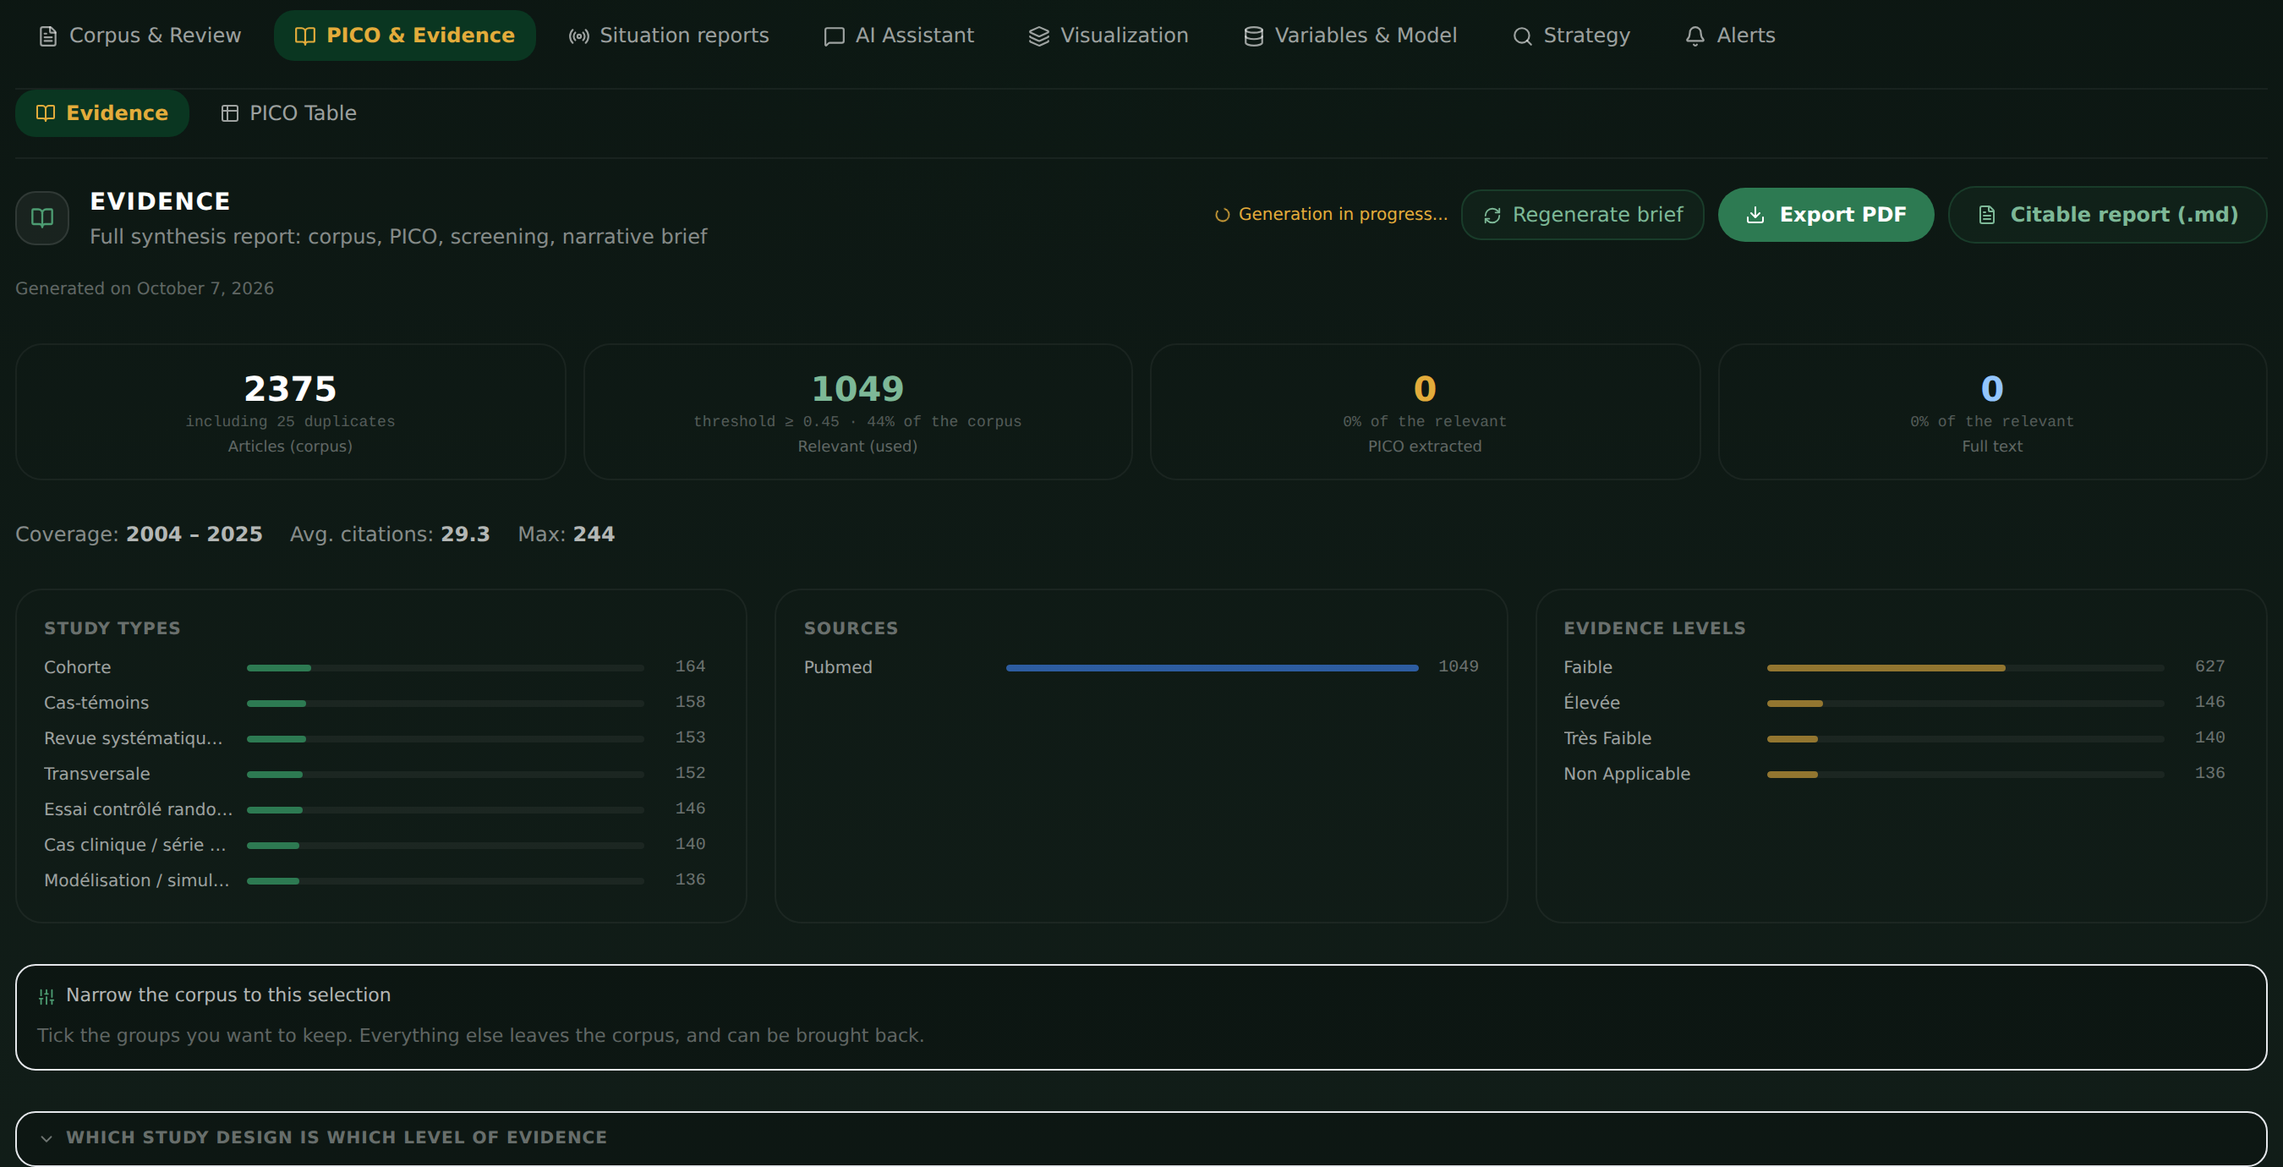
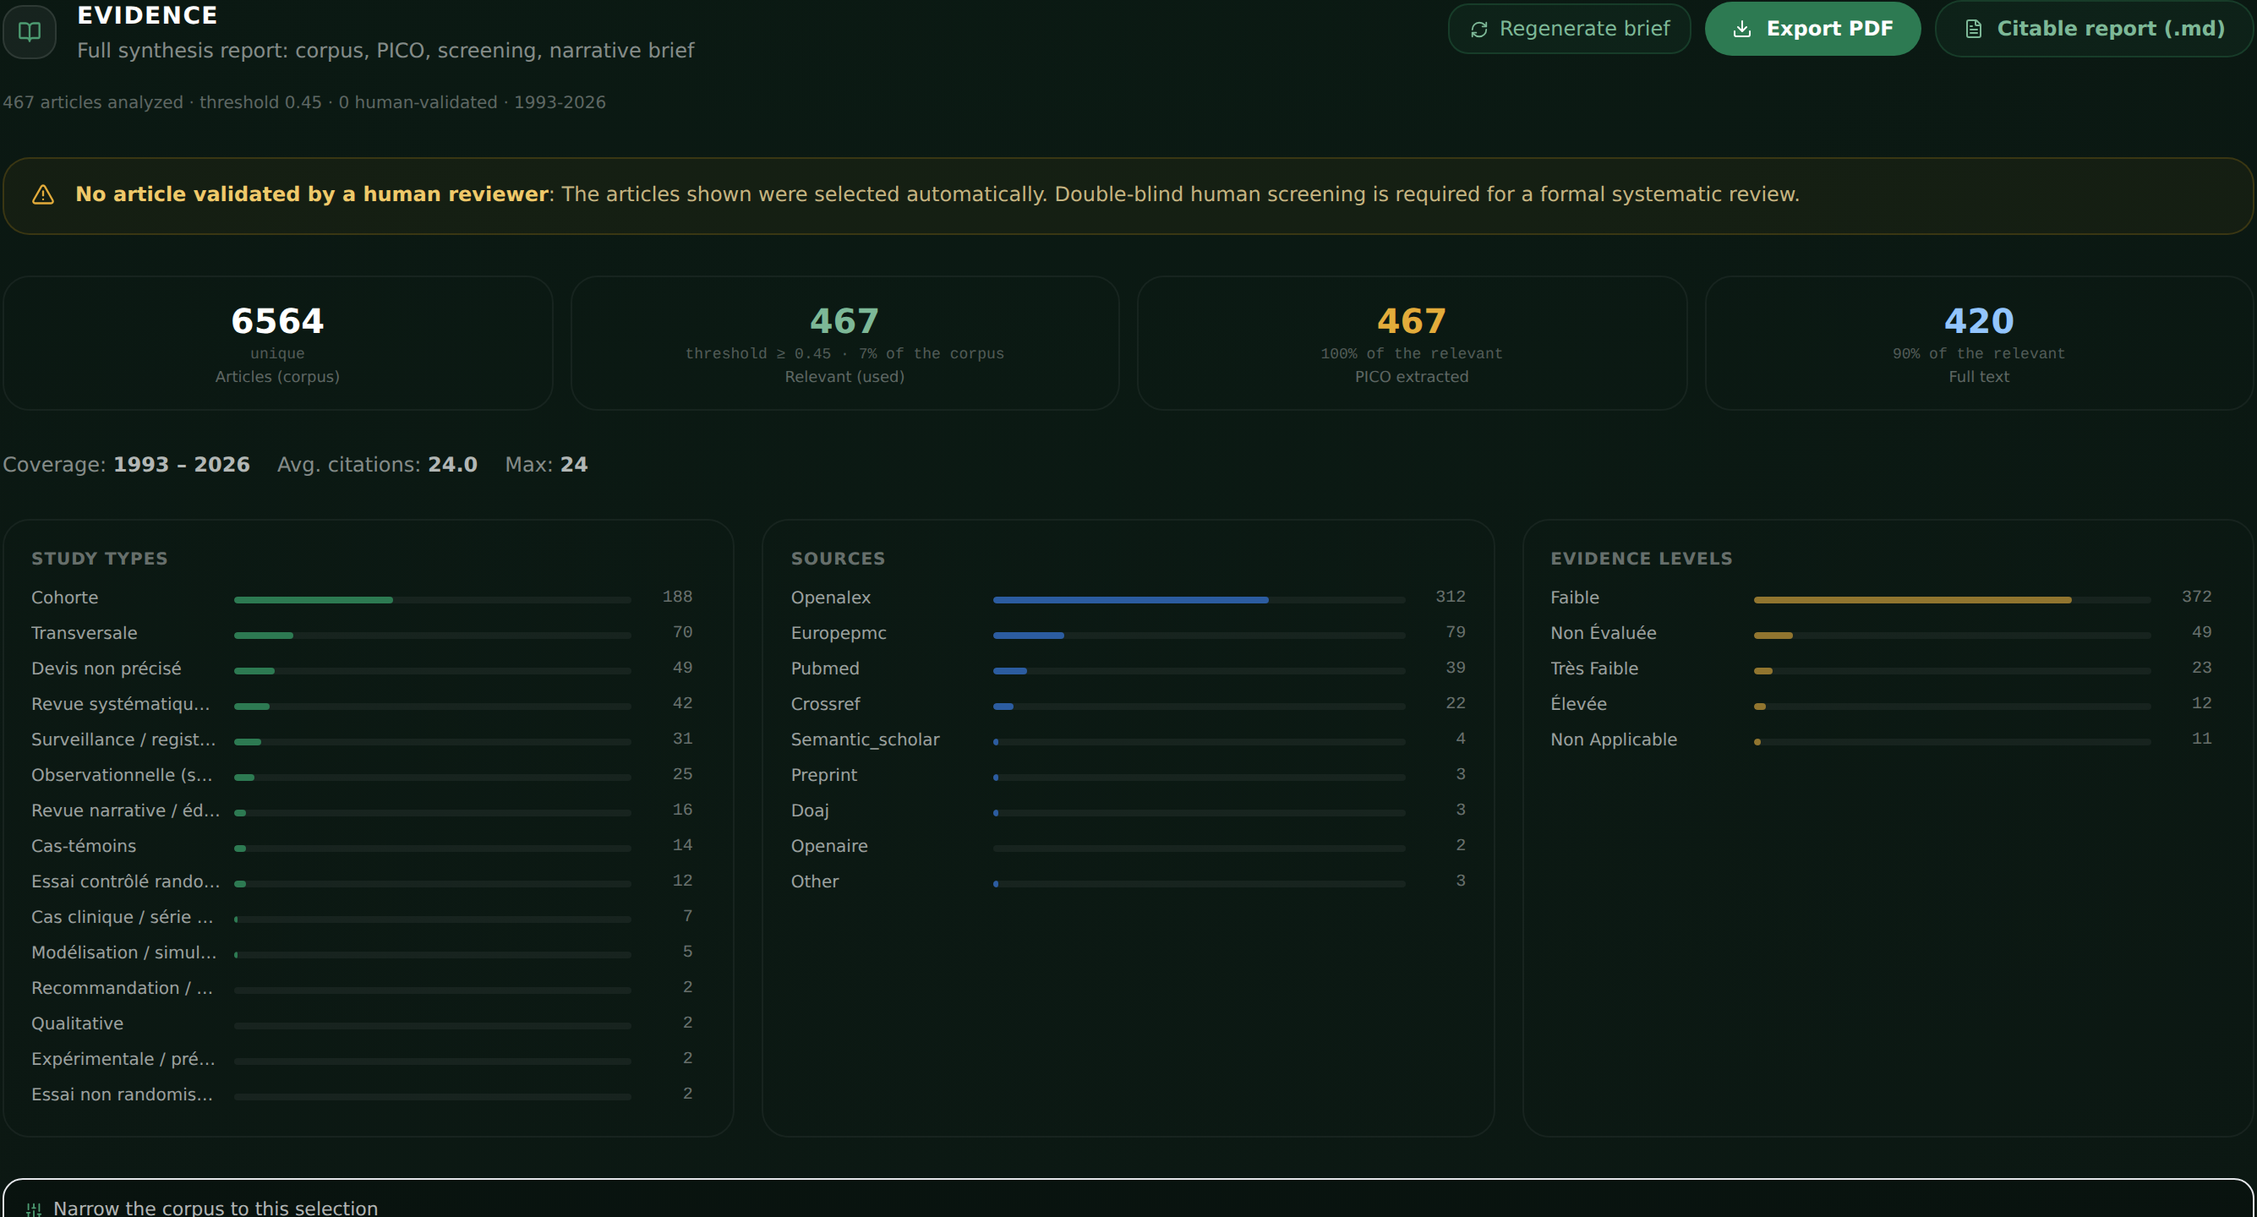
Rebuild the deck on the real scenario
The worked example was the figures of a pipeline still ingesting: 449 articles.
It finished at 6,564, of which 467 feed the analyses, 4,275 carry full text, and
the corpus spans 1917 to 2026 across 133 journals. Every figure in the deck now
comes from that finished run, read from the instance rather than typed in.

The screenshots are of that scenario too, not a local stand-in. Two of them
replace figures I had drawn: the clustering slide now shows the actual UMAP
projection, its five groups and the synthesis written for one of them, and the
model slide shows the specification the literature produced, with its outcome
defined to the unit and its interpretation bands each citing articles.

Two slides are new. One gives the corpus its evidence profile, which is the
honest headline of this particular question: twelve randomised trials against
188 cohorts and 31 surveillance studies, so the ceiling on any claim follows from
the literature rather than from the wording of its abstracts. The other separates
what clustering shows from how it works, since the real projection deserved a
page of its own.

Also: histogram value labels no longer collide on adjacent tall bars, the cluster
breakdown is a stacked proportion rather than six rows of bars, and two blocks
that were positioned by a guessed offset are now placed from the measured bottom
of what precedes them.

Claude-Session: https://claude.ai/code/session_01UxMdRYeHgFizgm8GsP3XkR

diff --git a/scripts/make_deck.py b/scripts/make_deck.py
@@ -54,18 +54,44 @@ class UseCase:
     name: str = "Early warning indicators for respiratory infections in Western Switzerland"
     question: str = ("What are the early warning indicators for respiratory infections "
                      "in Western Switzerland?")
-    as_of: str = "6 October 2026, while the pipeline was still ingesting"
-    total: int = 449
-    above_threshold: int = 52
-    below_threshold: int = 390
-    unscored: int = 7
-    from_local: int = 228
-    newly_fetched: int = 221
+    as_of: str = "7 October 2026, the pipeline having finished"
+    total: int = 6564
+    above_threshold: int = 467
+    below_threshold: int = 6097
+    unscored: int = 0
+    from_local: int = 1246
+    newly_fetched: int = 5318
     threshold: float = 0.45
+    with_fulltext: int = 4275
+    journals: int = 133
+    relevant_with_pico: int = 467
+    relevant_with_fulltext: int = 420
+    # L'axe des années est long (1917-2026) ; la diapositive le coupe à 1995 et le
+    # dit, parce que cent dix barres dont cent sont vides ne se lisent pas.
     years: list[tuple[int, int]] = field(default_factory=lambda: [
-        (2016, 14), (2017, 6), (2018, 11), (2019, 16), (2020, 47), (2021, 53),
-        (2022, 23), (2023, 36), (2024, 37), (2025, 56), (2026, 49)])
-    sources: list[tuple[str, int]] = field(default_factory=list)
+        (1995, 25), (1996, 31), (1997, 28), (1998, 35), (1999, 40), (2000, 44),
+        (2001, 47), (2002, 55), (2003, 78), (2004, 73), (2005, 86), (2006, 95),
+        (2007, 104), (2008, 112), (2009, 169), (2010, 142), (2011, 138),
+        (2012, 149), (2013, 157), (2014, 171), (2015, 196), (2016, 232),
+        (2017, 243), (2018, 290), (2019, 317), (2020, 623), (2021, 613),
+        (2022, 552), (2023, 573), (2024, 505), (2025, 570), (2026, 520)])
+    sources: list[tuple[str, int]] = field(default_factory=lambda: [
+        ("OPENALEX", 5284), ("EUROPEPMC", 823), ("PUBMED", 184), ("CORE", 71),
+        ("CROSSREF", 70), ("PREPRINT", 59), ("SEMANTIC SCHOLAR", 35),
+        ("DOAJ", 20), ("ARXIV", 7), ("PROSPERO", 5), ("OPENAIRE", 5),
+        ("COCHRANE", 1)])
+    # Le profil de preuve, tel que la page l'affiche.
+    designs: list[tuple[str, int]] = field(default_factory=lambda: [
+        ("Cohort", 188), ("Cross-sectional", 70), ("Design not stated", 49),
+        ("Systematic review", 42), ("Surveillance", 31), ("Observational", 25),
+        ("Narrative review", 16), ("Case-control", 14),
+        ("Randomised trial", 12), ("Case report or series", 7)])
+    clusters: list[tuple[str, int]] = field(default_factory=lambda: [
+        ("CLUSTER 5", 183), ("CLUSTER 1", 73), ("CLUSTER 3", 71),
+        ("CLUSTER 2", 36), ("CLUSTER 4", 32)])
+    levels: list[tuple[str, int]] = field(default_factory=lambda: [
+        ("Low", 272), ("Not assessed", 49), ("Very low", 23), ("High", 12),
+        ("Not applicable", 11)])
 
     def refresh(self, api: str, scenario_id: str | None = None) -> str:
         """Relit les compteurs sur une instance en marche. Renvoie une note d'état."""
@@ -291,7 +317,7 @@ def _histogram(slide, x, y, w, h, pairs, bar=BRAND, label_every=2):
         rect = _box(slide, x + i * slot, y + plot_h - bh, bw, bh,
                     fill=bar if count else BRAND_DIM, radius=False)
         rect.line.fill.background()
-        if count:
+        if count and (len(cols) <= 16 or i % 2 == 0 or count == peak):
             tf = _tf(slide, x + i * slot - Inches(0.1), y + plot_h - bh - Inches(0.22),
                      bw + Inches(0.2), Inches(0.2))
             _text(tf, str(count), size=8, color=MUTED, align=PP_ALIGN.CENTER, space_after=0)
@@ -488,6 +514,40 @@ def _scatter(slide, x, y, w, h, groups, seed=7):
             _text(tf, label, size=9.5, color=colour, bold=True, align=PP_ALIGN.CENTER,
                   space_after=0)
     return y + h
+
+
+def _stacked(slide, x, y, w, segments, h=Inches(0.42), colours=None):
+    """Une barre empilée : des parts d'un même tout, en une seule ligne.
+
+    Six barres séparées disaient la même chose en six fois plus de hauteur."""
+    total = sum(n for _, n in segments) or 1
+    palette = colours or [BRAND, RGBColor(0x5F, 0xA8, 0x86), GOLD,
+                          RGBColor(0x6E, 0x9E, 0xE8), RGBColor(0xB4, 0x8A, 0xD4),
+                          BRAND_DIM]
+    cx = x
+    for i, (label, n) in enumerate(segments):
+        seg_w = int(w * n / total) if i < len(segments) - 1 else (x + w - cx)
+        if seg_w <= 0:
+            continue
+        box = _box(slide, cx, y, seg_w, h, fill=palette[i % len(palette)], radius=False)
+        box.line.color.rgb = INK
+        box.line.width = Pt(1.25)
+        if seg_w > Inches(0.5):
+            tf = _tf(slide, cx, y + Inches(0.07), seg_w, h, anchor=MSO_ANCHOR.TOP)
+            _text(tf, str(n), size=11, color=INK, bold=True, align=PP_ALIGN.CENTER,
+                  space_after=0)
+        cx += seg_w
+    # La légende sous la barre, sur une ligne.
+    lx = x
+    for i, (label, n) in enumerate(segments):
+        chip = _box(slide, lx, y + h + Inches(0.14), Inches(0.12), Inches(0.12),
+                    fill=palette[i % len(palette)], radius=False)
+        chip.line.fill.background()
+        tw = Emu(int(len(label) * 9 * _CHAR_W * 12700) + Inches(0.1))
+        tf = _tf(slide, lx + Inches(0.18), y + h + Inches(0.08), tw, Inches(0.24))
+        _text(tf, label, size=9, color=MUTED, space_after=0)
+        lx += Inches(0.18) + tw + Inches(0.16)
+    return y + h + Inches(0.42)
 
 
 # ── Les diapositives ─────────────────────────────────────────────────────────
@@ -796,19 +856,25 @@ def build(uc: UseCase, out: str, live: bool, shots: str = "") -> str:
                   kicker="Topic structure",
                   subtitle="What themes exist in this corpus, how big each is, and which "
                            "articles sit between them.")
+    _shot(s, shot("clusters"), MARGIN, y, W - 2 * MARGIN, H - y - Inches(0.62))
+    _footer(s, "Each cluster is a selectable subset: pick one and every downstream "
+               "panel describes that theme alone")
+
+    # Le détail de la chaîne, sur sa propre diapositive.
+    s, y = _slide(prs, "How the clusters are found", kicker="Topic structure",
+                  subtitle="Found rather than chosen: the number of topics follows the "
+                           "density of the corpus, not a parameter someone picked.")
     bx, bw = MARGIN, int((W - 2 * MARGIN) * 0.52)
     cx = MARGIN + bw + Inches(0.44)
     cw = W - MARGIN - cx
     pipe_bottom = _pipe(s, bx, y, bw, [
-        ("Embeddings.", "Taken from the vectors already stored for the corpus; a TF-IDF "
-                        "fallback keeps it working without a model call."),
-        ("UMAP.", "Reduction to two dimensions, run under a timeout so a slow projection "
-                  "cannot hold the page."),
-        ("HDBSCAN.", "Density clustering, with the minimum cluster size scaled to the "
-                     "corpus: the number of topics is found rather than chosen. K-means "
-                     "over a truncated SVD takes over if either step fails."),
-        ("Summaries.", "Each cluster gets a label and a short description, in the "
-                       "reader's language."),
+        ("Embeddings.", "The vectors already stored for the corpus, with a TF-IDF "
+                        "fallback so it works without a model call."),
+        ("UMAP.", "Reduction to two dimensions, under a timeout."),
+        ("HDBSCAN.", "Density clustering, minimum cluster size scaled to the corpus. "
+                     "K-means over a truncated SVD takes over if either step fails."),
+        ("Summaries.", "A label and a short description per cluster, in the reader's "
+                       "language."),
     ])
     panel_bottom = _panel(s, cx, y, cw, "What it is for", [
         "A cluster is a selectable subset. Picking one narrows the corpus to that theme, "
@@ -817,24 +883,18 @@ def build(uc: UseCase, out: str, live: bool, shots: str = "") -> str:
         "It is also how a reviewer discovers that a question asked as one thing is in "
         "fact three separate literatures.",
     ])
-    # La projection, dessinée sous la colonne de gauche, où la place est libre :
-    # un corpus se range en quelques masses denses et une frange que la densité ne
-    # rattache à rien. Bornée au-dessus du pied de page.
-    fig_y = max(pipe_bottom, panel_bottom) + Inches(0.26)
-    # Hauteur STRICTE : ce qui reste au-dessus du pied de page, sans plancher. Un
-    # plancher poussait la figure par-dessus le pied de page quand la colonne de
-    # gauche était longue.
-    fig_h = min(Inches(1.6), H - Inches(0.82) - (fig_y + Inches(0.34)))
-    tf = _tf(s, bx, fig_y, bw, Inches(0.26))
-    _text(tf, "A PROJECTED CORPUS", size=9.5, color=BRAND, bold=True, space_after=0)
-    _scatter(s, bx, fig_y + Inches(0.34), bw, fig_h, [
-        (0.18, 0.62, 0.15, 28, BRAND, "surveillance"),
-        (0.52, 0.72, 0.13, 22, GOLD, "modelling"),
-        (0.84, 0.50, 0.12, 17, RGBColor(0x6E, 0x9E, 0xE8), "vector control"),
-        (0.52, 0.22, 0.32, 8, BRAND_DIM, ""),
-    ])
-    _footer(s, "The interface states how many articles the projection covers; "
-               "the unclustered fringe is shown rather than forced into a group")
+    fig_y = max(pipe_bottom, panel_bottom) + Inches(0.3)
+    tf = _tf(s, MARGIN, fig_y, W - 2 * MARGIN, Inches(0.28))
+    _text(tf, "WHAT IT FOUND IN THE WORKED EXAMPLE", size=9.5, color=BRAND, bold=True,
+          space_after=0)
+    _clustered = sum(n for _, n in uc.clusters)
+    _fringe = max(0, uc.above_threshold - _clustered)
+    _stacked(s, MARGIN, fig_y + Inches(0.34), W - 2 * MARGIN,
+             [(lbl.replace("CLUSTER ", "Cluster "), n) for lbl, n in uc.clusters]
+             + [("Unclustered", _fringe)])
+    _footer(s, f"Five groups out of {uc.above_threshold} articles, and a fringe of "
+               f"{_fringe} the density attaches to none of them, shown rather than "
+               f"absorbed into the nearest group")
 
     # 14 ── Graphe de connaissances
     s, y = _slide(prs, "The knowledge graph: what sits next to what",
@@ -990,6 +1050,15 @@ def build(uc: UseCase, out: str, live: bool, shots: str = "") -> str:
         "proposed can be checked against the ones the data actually used.",
     ])
     _footer(s, "Every run is kept with its parameters, its metrics and its importances")
+
+    # Capture : la spécification telle qu'elle est produite.
+    s, y = _slide(prs, "The specification the literature produces",
+                  kicker="Model specification",
+                  subtitle="An outcome defined to the unit and the time horizon, with "
+                           "interpretation bands, each carrying the articles behind it.")
+    _shot(s, shot("model"), MARGIN, y, W - 2 * MARGIN, H - y - Inches(0.62))
+    _footer(s, "Generated from the relevant articles, and withheld until a reviewer "
+               "validates it")
 
     # 19 ── SEIR
     s, y = _slide(prs, "SEIR, parameterised from the literature",
@@ -1148,15 +1217,17 @@ def build(uc: UseCase, out: str, live: bool, shots: str = "") -> str:
     # 24 ── Cas d'usage : la question
     s, y = _slide(prs, uc.name, kicker="Worked example",
                   subtitle=f"Scenario {uc.scenario_id} · figures as of {uc.as_of}.")
+    _n = lambda v: f"{v:,}".replace(",", " ")
     y = _stat_row(s, y, [
-        (f"{uc.total:,}".replace(",", " "), "articles in the corpus",
-         f"{uc.from_local} from the local base, {uc.newly_fetched} fetched for this scenario"),
-        (f"{uc.above_threshold:,}".replace(",", " "), "above the threshold",
-         f"cosine similarity at or above {uc.threshold:.2f}"),
-        (f"{uc.below_threshold:,}".replace(",", " "), "below, and kept",
-         "lowering the threshold brings them back"),
-        (f"{uc.unscored:,}".replace(",", " "), "awaiting a score",
-         "scoring runs across the whole corpus"),
+        (_n(uc.total), "articles in the corpus",
+         f"{_n(uc.from_local)} already in the local base, {_n(uc.newly_fetched)} "
+         f"fetched for this question"),
+        (_n(uc.above_threshold), "feed the analyses",
+         f"at or above a cosine similarity of {uc.threshold:.2f}"),
+        (_n(uc.below_threshold), "below, and kept",
+         "the threshold filters; lowering it brings them back"),
+        (_n(uc.with_fulltext), "with full text",
+         f"and {uc.journals} distinct journals across {len(uc.years)} years shown"),
     ])
     y += Inches(0.26)
     qbx, qbw = MARGIN, int((W - 2 * MARGIN) * 0.52)
@@ -1182,13 +1253,15 @@ def build(uc: UseCase, out: str, live: bool, shots: str = "") -> str:
     s, y = _slide(prs, "The corpus, described", kicker="Worked example")
     half = int((W - 2 * MARGIN - Inches(0.5)) / 2)
     tf = _tf(s, MARGIN, y, half, Inches(0.3))
-    _text(tf, "PUBLICATION YEAR", size=9.5, color=BRAND, bold=True, space_after=0)
-    _histogram(s, MARGIN, y + Inches(0.34), half, Inches(2.6), uc.years)
+    _text(tf, f"PUBLICATION YEAR, {uc.years[0][0]} ONWARDS", size=9.5, color=BRAND,
+          bold=True, space_after=0)
+    _histogram(s, MARGIN, y + Inches(0.34), half, Inches(2.6), uc.years, label_every=4)
     rx = MARGIN + half + Inches(0.5)
     if uc.sources:
         tf = _tf(s, rx, y, half, Inches(0.3))
         _text(tf, "LITERATURE SOURCES", size=9.5, color=BRAND, bold=True, space_after=0)
-        _bars(s, rx, y + Inches(0.4), half, uc.sources)
+        _bars(s, rx, y + Inches(0.4), half, uc.sources[:8], label_w=Inches(1.9),
+              row_h=Inches(0.31))
     else:
         tf = _tf(s, rx, y, half, Inches(0.3))
         _text(tf, "WHERE THE CORPUS CAME FROM", size=9.5, color=BRAND, bold=True,
@@ -1206,10 +1279,33 @@ def build(uc: UseCase, out: str, live: bool, shots: str = "") -> str:
         ], accent=GOLD, label_w=Inches(1.5), row_h=Inches(0.34))
     y += Inches(3.2)
     _bullets(s, MARGIN, y, W - 2 * MARGIN, [
-        "The rise from 2020 is the pandemic literature on respiratory surveillance, and it is still the bulk of what is published on the question.",
-        "Roughly half the corpus was already in the local base, which is why a new question on a covered area returns in seconds.",
+        "The corpus reaches back to 1917; the axis starts at 1995 because what precedes it is a handful of articles a year.",
+        "The jump at 2020 is the pandemic surveillance literature, and it has not receded: the four most recent years are the four largest.",
     ], size=14)
-    _footer(s, f"Scenario {uc.scenario_id}")
+    _footer(s, f"Scenario {uc.scenario_id}  ·  the counts above come from one statement, "
+               f"so the panels of the page agree with each other")
+
+    # Cas d'usage : le profil de preuve, chiffré.
+    s, y = _slide(prs, "What this corpus can and cannot support",
+                  kicker="Worked example",
+                  subtitle="The design and certainty profile of the "
+                           f"{uc.above_threshold} articles that feed the analyses.")
+    half = int((W - 2 * MARGIN - Inches(0.5)) / 2)
+    tf = _tf(s, MARGIN, y, half, Inches(0.3))
+    _text(tf, "STUDY DESIGN", size=9.5, color=BRAND, bold=True, space_after=0)
+    _bottom = _bars(s, MARGIN, y + Inches(0.4), half, uc.designs, label_w=Inches(2.0),
+                    row_h=Inches(0.31))
+    rx = MARGIN + half + Inches(0.5)
+    tf = _tf(s, rx, y, half, Inches(0.3))
+    _text(tf, "CERTAINTY, BY GRADE", size=9.5, color=GOLD, bold=True, space_after=0)
+    _bars(s, rx, y + Inches(0.4), half, uc.levels, accent=GOLD, label_w=Inches(2.0),
+          row_h=Inches(0.31))
+    # Mesuré, et non décalé d'une valeur devinée : le texte recouvrait la dernière barre.
+    y = _bottom + Inches(0.26)
+    _bullets(s, MARGIN, y, W - 2 * MARGIN, [
+        "Twelve randomised trials against 188 cohorts and 31 surveillance studies: this is an observational literature, and the ceiling on any claim follows from that.",
+    ], size=14)
+    _footer(s, "Counted over every relevant article, not over a sample of them")
 
     # 26 ── Cas d'usage : ce qu'il produit
     s, y = _slide(prs, "What this scenario produces", kicker="Worked example",
